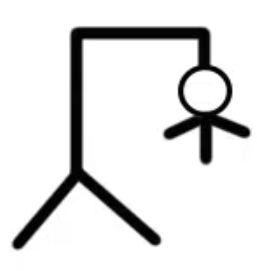
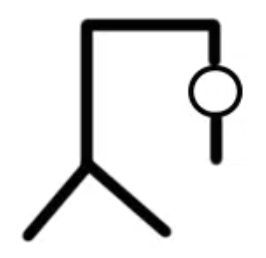
14 març 11:33

Changed region(s): [[0.0311, 0.062, 0.9961, 0.9612]]

diff --git a/Projecte_FInal/ProjecteUF2_Final.py b/Projecte_FInal/ProjecteUF2_Final.py
@@ -3,10 +3,14 @@ from PIL import Image, ImageTk
 import random
 
 #Variables
-llista = ["holaaa","adeu","casa",] 
+llista = ["holaaa","adeu","casa",]
 vides = 6
 guardades = set()
 partides= 0
+
+#with open("llista.txt") as llista:
+#      llista = llista.read().splitlines()
+
 
 #Funcio per canviar la imatge
 def forca():
@@ -31,8 +35,10 @@ def començar():
 def reiniciar():
       global guardades
       global partides
+      global vides
 
       partides += 1
+      vides = 6
       marcador_partides.config(text="Partides: "+str(partides)) 
 
       #Borrar contenido de guardades
@@ -53,7 +59,7 @@ def reiniciar():
 def comprovar():
       global vides
       lletra = entrada.get()[0]
-
+      bcomençar.config(text="Reiniciar", command=reiniciar)
 #Guardar letra en guardades
       if lletra in guardades:
               return
@@ -65,18 +71,20 @@ def comprovar():
                                     eguions.config(text=eguions.cget("text")[:i] + lletra + eguions.cget("text")[i+1:])
                   if "-" not in eguions.cget("text"):
                         eresultat.config(text="Has guanyat!")
+                        l2.config(image=imgG)
                   else:
                         eresultat.config(text="Correcte")
       else:
                   vides -= 1
                   if vides == 0:
-                        eresultat.config(text="¡Perdiste!")
+                        eresultat.config(text="Has perdut!")
                   else:
                         eresultat.config(text="Incorrecte")
                         forca()
                         eresultat.config(text="")
       marcador_vides.config(text="Vides: "+str(vides))              
       marcador_lletra.config(text="Lletra adivinades: "+str(guardades))
+      entrada.delete(0, END)
 
 win = Tk()
 win.geometry("640x400")
@@ -90,9 +98,13 @@ defaultimg = Image.open("imatges/Inici.png")
 defaultimg = defaultimg.resize((300, 200))
 defaultimg = ImageTk.PhotoImage(defaultimg)
 
-img_inici = Image.open("imatges/img0.png")
+img_inici = Image.open("imatges/img6.png")
 img_inici = img_inici.resize((200, 200))
 img_inici = ImageTk.PhotoImage(img_inici)
+
+imgG = Image.open("imatges/Guanyar.png")
+imgG = imgG.resize((200, 100))
+imgG = ImageTk.PhotoImage(imgG)
 
 l2 = Label(image=defaultimg)
 l2.grid(column=0,row=1,columnspan=2)
@@ -108,22 +120,20 @@ entrada = Entry()
 entrada.grid(column=0,row=3,columnspan=2)
 
 marcador_vides = Label(text="Vides: "+str(vides))
-marcador_vides.grid(column=0,row=7,columnspan=2)
+marcador_vides.grid(column=0,row=7,sticky=E)
 
 marcador_lletra = Label(text="Lletres adivinades: ")
-marcador_lletra.grid(column=0,row=8,columnspan=2)
+marcador_lletra.grid(column=0,row=8,sticky=W)
 
 marcador_partides = Label(text="Partides jugades: ")
-marcador_partides.grid(column=0,row=9,columnspan=2)
+marcador_partides.grid(column=0,row=9,sticky=W)
 
 #Botons
 bcomençar = Button(text="Començar", command=començar)
 bcomençar.grid(column=0,row=4,sticky=E)
 bsortir = Button(text="Sortir", command=win.destroy)
-bsortir.grid(column=1,row=4,sticky=W)
+bsortir.grid(column=0,row=4,sticky=W)
 bjugar = Button(text="Jugar", command=comprovar)
-bjugar.grid(column=1,row=5,sticky=W)
-breiniciar = Button(text="Reiniciar", command=reiniciar)
-breiniciar.grid(column=0,row=5,sticky=E)
+bjugar.grid(column=0,row=5,sticky=W)
 
 win.mainloop()
